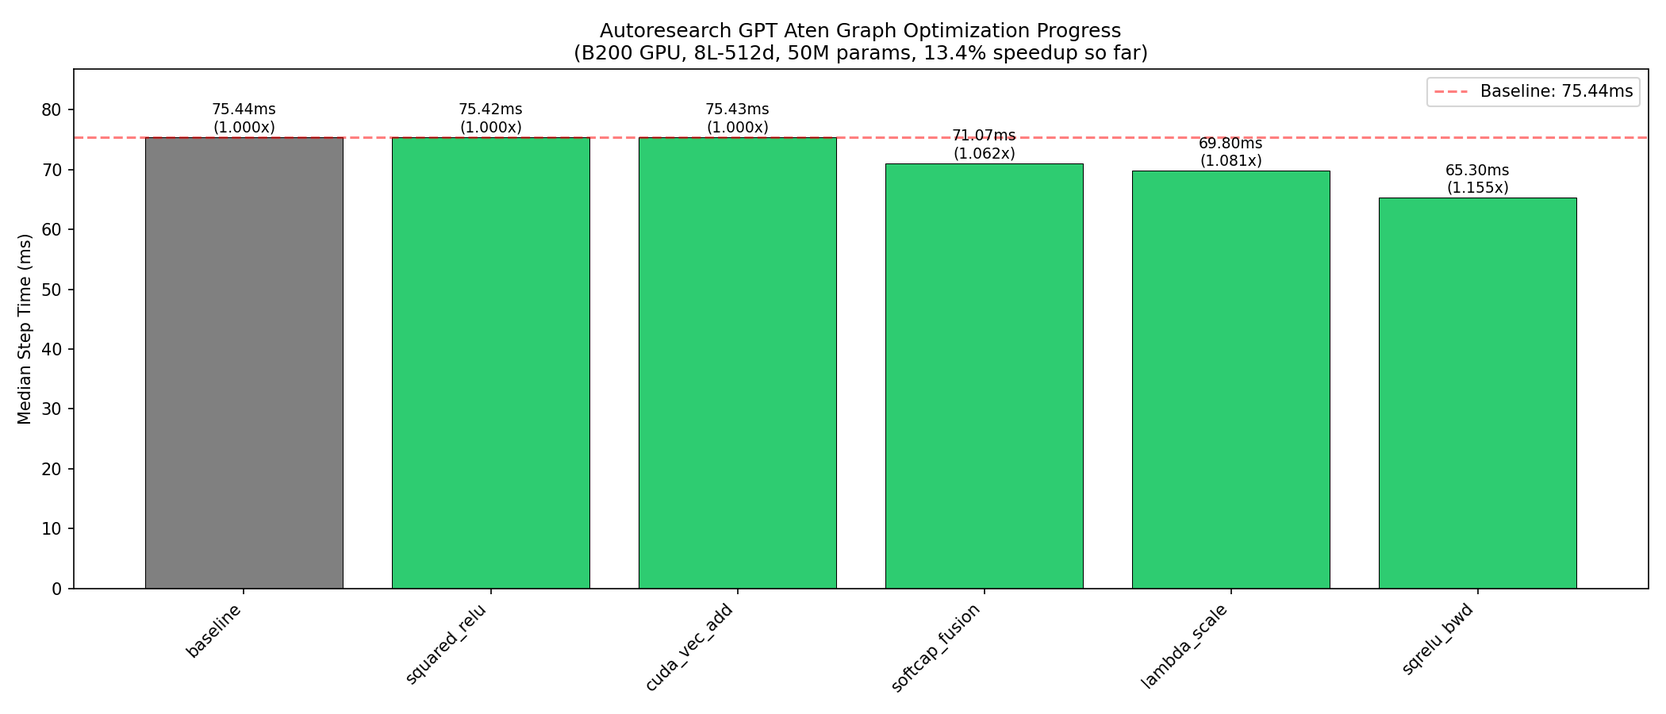
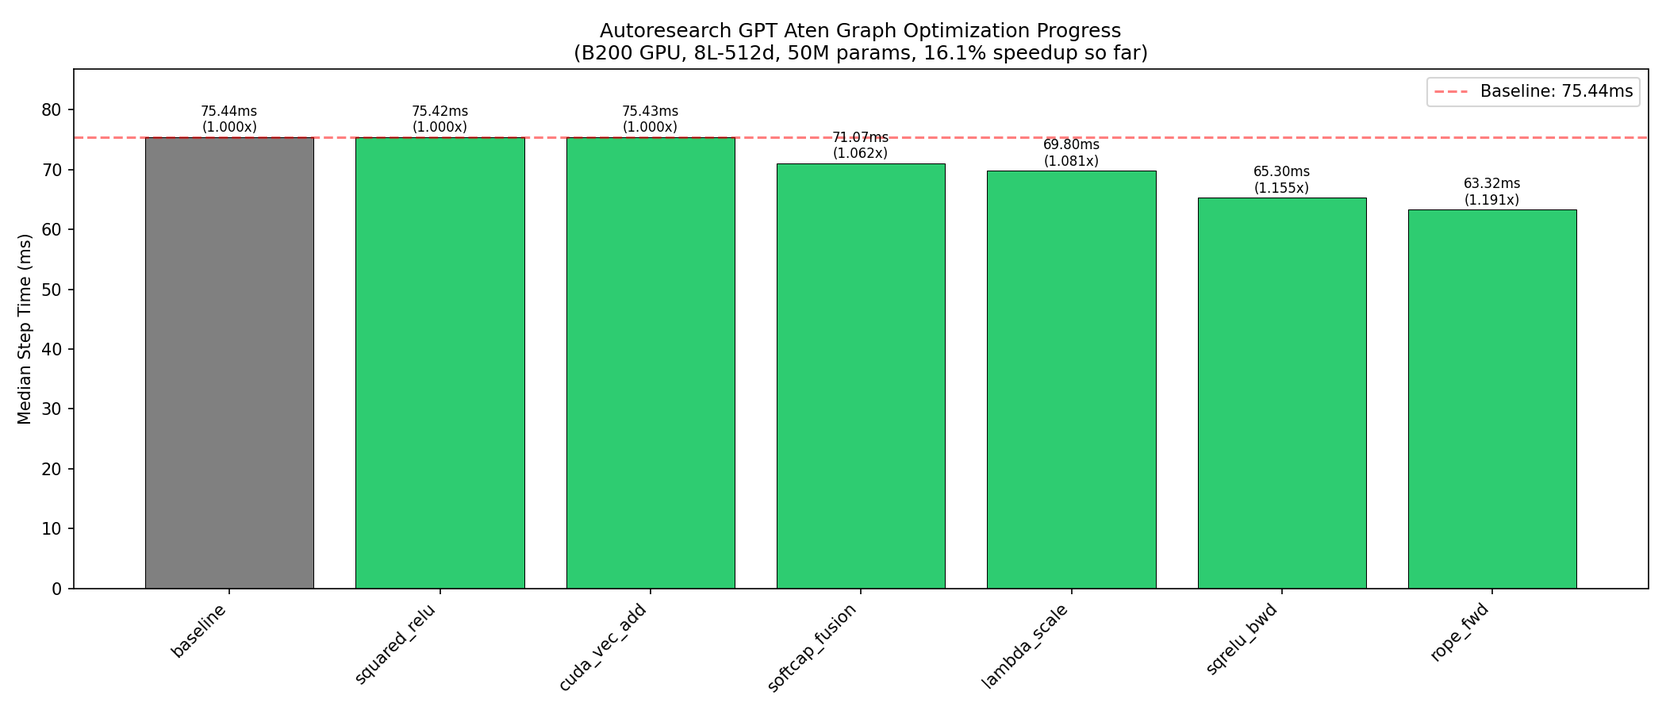
perf: fuse forward RoPE into Triton kernel (16.1% total speedup)
Replaces 16 instances of slice+mul+neg+mul+add+cat (10 ops each) with
single triton_rope_fwd kernel for Q and K per layer.
63.32ms vs 75.44ms baseline on B200.

diff --git a/.autoresearch_optim_cache/GPT_07554748d291_2a_train_aten.py b/.autoresearch_optim_cache/GPT_07554748d291_2a_train_aten.py
@@ -375,6 +375,66 @@ def triton_squared_relu_bwd(grad_fp32, relu_fp32, relu_bf16):
     return out
 # ── End Triton fused squared_relu backward kernel ──────────────────
 
+# ── Triton fused RoPE forward kernel ────────────────────────────────
+# Fuses: slice(x, low/high) + mul(cos/sin) + neg + add + cat
+# Input x: [B, T, H, D] where D=128, HALF_D=64
+# cos, sin: [1, T, 1, HALF_D]
+# Output: [B, T, H, D] with rotary embedding applied
+@triton.jit
+def _rope_fwd_kernel(
+    x_ptr, cos_ptr, sin_ptr, out_ptr,
+    B, T, H, HALF_D: tl.constexpr,
+    stride_xb, stride_xt, stride_xh, stride_xd,
+    stride_cb, stride_ct, stride_ch, stride_cd,
+    BLOCK_D: tl.constexpr,
+):
+    # Each program handles one (b, t, h) combination
+    pid = tl.program_id(0)
+    b = pid // (T * H)
+    rem = pid % (T * H)
+    t = rem // H
+    h = rem % H
+
+    # Load cos and sin for this position
+    d_offs = tl.arange(0, BLOCK_D)
+    mask = d_offs < HALF_D
+
+    cos_base = t * stride_ct + d_offs * stride_cd
+    sin_base = t * stride_ct + d_offs * stride_cd
+    cos_val = tl.load(cos_ptr + cos_base, mask=mask)
+    sin_val = tl.load(sin_ptr + sin_base, mask=mask)
+
+    # Load x_low (first HALF_D) and x_high (second HALF_D)
+    x_base = b * stride_xb + t * stride_xt + h * stride_xh
+    x_low = tl.load(x_ptr + x_base + d_offs * stride_xd, mask=mask)
+    x_high = tl.load(x_ptr + x_base + (d_offs + HALF_D) * stride_xd, mask=mask)
+
+    # RoPE: out_low = x_low * cos + x_high * sin
+    #        out_high = x_low * (-sin) + x_high * cos
+    out_low = x_low * cos_val + x_high * sin_val
+    out_high = x_low * (-sin_val) + x_high * cos_val
+
+    tl.store(out_ptr + x_base + d_offs * stride_xd, out_low, mask=mask)
+    tl.store(out_ptr + x_base + (d_offs + HALF_D) * stride_xd, out_high, mask=mask)
+
+def triton_rope_fwd(x, cos, sin):
+    """Fused RoPE forward: replaces slice+mul+neg+mul+add+cat (10 ops → 1 kernel).
+    x: [B, T, H, D], cos/sin: [1, T, 1, HALF_D]
+    """
+    B, T, H, D = x.shape
+    HALF_D = D // 2
+    out = torch.empty_like(x)
+    grid = (B * T * H,)
+    _rope_fwd_kernel[grid](
+        x, cos, sin, out,
+        B, T, H, HALF_D,
+        x.stride(0), x.stride(1), x.stride(2), x.stride(3),
+        cos.stride(0), cos.stride(1), cos.stride(2), cos.stride(3),
+        BLOCK_D=64,  # HALF_D=64 fits in one block
+    )
+    return out
+# ── End Triton fused RoPE forward kernel ───────────────────────────
+
 
 # ======================================================================
 # WEIGHTS / PARAMETERS
@@ -686,26 +746,12 @@ def forward(
     # /.autoresearch_repo/train.py:76
     # v = self.c_v(x).view(B, T, self.n_kv_head, self.head_dim)
     h0_attn_view_2: 'bfloat16[32, 2048, 4, 128]' = aten.view(h0_attn_c_v__unsafe_view, [32, 2048, 4, 128])  # strides=(1048576, 512, 128, 1), contiguous=True, view=True
-    h0_attn_slice: 'bfloat16[32, 2048, 4, 64]' = aten.slice.Tensor(h0_attn_view, 3, 0, 64)  # strides=(1048576, 512, 128, 1), contiguous=False, view=True
-    h0_attn_slice_1: 'bfloat16[32, 2048, 4, 64]' = aten.slice.Tensor(h0_attn_view, 3, 64, 9223372036854775807)  # strides=(1048576, 512, 128, 1), contiguous=False, view=True
-    h0_attn_mul: 'bfloat16[32, 2048, 4, 64]' = aten.mul.Tensor(h0_attn_slice, getitem_slice)  # strides=(524288, 256, 64, 1), contiguous=True, view=False
-    h0_attn_mul_1: 'bfloat16[32, 2048, 4, 64]' = aten.mul.Tensor(h0_attn_slice_1, getitem_1_slice)  # strides=(524288, 256, 64, 1), contiguous=True, view=False
-    h0_attn_add: 'bfloat16[32, 2048, 4, 64]' = aten.add.Tensor(h0_attn_mul, h0_attn_mul_1)  # strides=(524288, 256, 64, 1), contiguous=True, view=False
-    h0_attn_neg: 'bfloat16[1, 2048, 1, 64]' = aten.neg(getitem_1_slice)  # strides=(131072, 64, 64, 1), contiguous=True, view=False
-    h0_attn_mul_2: 'bfloat16[32, 2048, 4, 64]' = aten.mul.Tensor(h0_attn_slice, h0_attn_neg)  # strides=(524288, 256, 64, 1), contiguous=True, view=False
-    h0_attn_mul_3: 'bfloat16[32, 2048, 4, 64]' = aten.mul.Tensor(h0_attn_slice_1, getitem_slice)  # strides=(524288, 256, 64, 1), contiguous=True, view=False
-    h0_attn_add_1: 'bfloat16[32, 2048, 4, 64]' = aten.add.Tensor(h0_attn_mul_2, h0_attn_mul_3)  # strides=(524288, 256, 64, 1), contiguous=True, view=False
-    h0_attn_cat: 'bfloat16[32, 2048, 4, 128]' = aten.cat([h0_attn_add, h0_attn_add_1], 3)  # strides=(1048576, 512, 128, 1), contiguous=True, view=False
-    h0_attn_slice_2: 'bfloat16[32, 2048, 4, 64]' = aten.slice.Tensor(h0_attn_view_1, 3, 0, 64)  # strides=(1048576, 512, 128, 1), contiguous=False, view=True
-    h0_attn_slice_3: 'bfloat16[32, 2048, 4, 64]' = aten.slice.Tensor(h0_attn_view_1, 3, 64, 9223372036854775807)  # strides=(1048576, 512, 128, 1), contiguous=False, view=True
-    h0_attn_mul_4: 'bfloat16[32, 2048, 4, 64]' = aten.mul.Tensor(h0_attn_slice_2, getitem_slice)  # strides=(524288, 256, 64, 1), contiguous=True, view=False
-    h0_attn_mul_5: 'bfloat16[32, 2048, 4, 64]' = aten.mul.Tensor(h0_attn_slice_3, getitem_1_slice)  # strides=(524288, 256, 64, 1), contiguous=True, view=False
-    h0_attn_add_2: 'bfloat16[32, 2048, 4, 64]' = aten.add.Tensor(h0_attn_mul_4, h0_attn_mul_5)  # strides=(524288, 256, 64, 1), contiguous=True, view=False
-    h0_attn_neg_1: 'bfloat16[1, 2048, 1, 64]' = aten.neg(getitem_1_slice)  # strides=(131072, 64, 64, 1), contiguous=True, view=False
-    h0_attn_mul_6: 'bfloat16[32, 2048, 4, 64]' = aten.mul.Tensor(h0_attn_slice_2, h0_attn_neg_1)  # strides=(524288, 256, 64, 1), contiguous=True, view=False
-    h0_attn_mul_7: 'bfloat16[32, 2048, 4, 64]' = aten.mul.Tensor(h0_attn_slice_3, getitem_slice)  # strides=(524288, 256, 64, 1), contiguous=True, view=False
-    h0_attn_add_3: 'bfloat16[32, 2048, 4, 64]' = aten.add.Tensor(h0_attn_mul_6, h0_attn_mul_7)  # strides=(524288, 256, 64, 1), contiguous=True, view=False
-    h0_attn_cat_1: 'bfloat16[32, 2048, 4, 128]' = aten.cat([h0_attn_add_2, h0_attn_add_3], 3)  # strides=(1048576, 512, 128, 1), contiguous=True, view=False
+    # FUSED: RoPE for Q (slice+mul+neg+mul+add+cat → single Triton kernel)
+    h0_attn_neg: 'bfloat16[1, 2048, 1, 64]' = aten.neg(getitem_1_slice)  # saved for backward
+    h0_attn_cat: 'bfloat16[32, 2048, 4, 128]' = triton_rope_fwd(h0_attn_view, getitem_slice, getitem_1_slice)
+    # FUSED: RoPE for K
+    h0_attn_neg_1: 'bfloat16[1, 2048, 1, 64]' = aten.neg(getitem_1_slice)  # saved for backward
+    h0_attn_cat_1: 'bfloat16[32, 2048, 4, 128]' = triton_rope_fwd(h0_attn_view_1, getitem_slice, getitem_1_slice)
     h0_attn__fused_rms_norm = aten._fused_rms_norm(h0_attn_cat, [128], None, None)  # out0: strides=(1048576, 512, 128, 1), contiguous=True; out1: strides=(8192, 4, 1, 1), contiguous=True, view=False
     h0_attn_getitem: 'bfloat16[32, 2048, 4, 128]' = operator.getitem(h0_attn__fused_rms_norm, 0)  # strides=(1048576, 512, 128, 1), contiguous=True, view=True
     h0_attn_getitem_1: 'float32[32, 2048, 4, 1]' = operator.getitem(h0_attn__fused_rms_norm, 1)  # strides=(8192, 4, 1, 1), contiguous=True, view=True
@@ -876,26 +922,12 @@ def forward(
     h1_attn_unsqueeze: 'bfloat16[32, 2048, 4, 1]' = aten.unsqueeze(h1_attn_mul, -1)  # strides=(8192, 4, 1, 1), contiguous=True, view=True
     h1_attn_mul_1: 'bfloat16[32, 2048, 4, 128]' = aten.mul.Tensor(h1_attn_unsqueeze, h1_attn_view_3)  # strides=(1048576, 512, 128, 1), contiguous=True, view=False
     h1_attn_add: 'bfloat16[32, 2048, 4, 128]' = aten.add.Tensor(h1_attn_view_2, h1_attn_mul_1)  # strides=(1048576, 512, 128, 1), contiguous=True, view=False
-    h1_attn_slice_1: 'bfloat16[32, 2048, 4, 64]' = aten.slice.Tensor(h1_attn_view, 3, 0, 64)  # strides=(1048576, 512, 128, 1), contiguous=False, view=True
-    h1_attn_slice_2: 'bfloat16[32, 2048, 4, 64]' = aten.slice.Tensor(h1_attn_view, 3, 64, 9223372036854775807)  # strides=(1048576, 512, 128, 1), contiguous=False, view=True
-    h1_attn_mul_2: 'bfloat16[32, 2048, 4, 64]' = aten.mul.Tensor(h1_attn_slice_1, getitem_slice)  # strides=(524288, 256, 64, 1), contiguous=True, view=False
-    h1_attn_mul_3: 'bfloat16[32, 2048, 4, 64]' = aten.mul.Tensor(h1_attn_slice_2, getitem_1_slice)  # strides=(524288, 256, 64, 1), contiguous=True, view=False
-    h1_attn_add_1: 'bfloat16[32, 2048, 4, 64]' = aten.add.Tensor(h1_attn_mul_2, h1_attn_mul_3)  # strides=(524288, 256, 64, 1), contiguous=True, view=False
-    h1_attn_neg: 'bfloat16[1, 2048, 1, 64]' = aten.neg(getitem_1_slice)  # strides=(131072, 64, 64, 1), contiguous=True, view=False
-    h1_attn_mul_4: 'bfloat16[32, 2048, 4, 64]' = aten.mul.Tensor(h1_attn_slice_1, h1_attn_neg)  # strides=(524288, 256, 64, 1), contiguous=True, view=False
-    h1_attn_mul_5: 'bfloat16[32, 2048, 4, 64]' = aten.mul.Tensor(h1_attn_slice_2, getitem_slice)  # strides=(524288, 256, 64, 1), contiguous=True, view=False
-    h1_attn_add_2: 'bfloat16[32, 2048, 4, 64]' = aten.add.Tensor(h1_attn_mul_4, h1_attn_mul_5)  # strides=(524288, 256, 64, 1), contiguous=True, view=False
-    h1_attn_cat: 'bfloat16[32, 2048, 4, 128]' = aten.cat([h1_attn_add_1, h1_attn_add_2], 3)  # strides=(1048576, 512, 128, 1), contiguous=True, view=False
-    h1_attn_slice_3: 'bfloat16[32, 2048, 4, 64]' = aten.slice.Tensor(h1_attn_view_1, 3, 0, 64)  # strides=(1048576, 512, 128, 1), contiguous=False, view=True
-    h1_attn_slice_4: 'bfloat16[32, 2048, 4, 64]' = aten.slice.Tensor(h1_attn_view_1, 3, 64, 9223372036854775807)  # strides=(1048576, 512, 128, 1), contiguous=False, view=True
-    h1_attn_mul_6: 'bfloat16[32, 2048, 4, 64]' = aten.mul.Tensor(h1_attn_slice_3, getitem_slice)  # strides=(524288, 256, 64, 1), contiguous=True, view=False
-    h1_attn_mul_7: 'bfloat16[32, 2048, 4, 64]' = aten.mul.Tensor(h1_attn_slice_4, getitem_1_slice)  # strides=(524288, 256, 64, 1), contiguous=True, view=False
-    h1_attn_add_3: 'bfloat16[32, 2048, 4, 64]' = aten.add.Tensor(h1_attn_mul_6, h1_attn_mul_7)  # strides=(524288, 256, 64, 1), contiguous=True, view=False
-    h1_attn_neg_1: 'bfloat16[1, 2048, 1, 64]' = aten.neg(getitem_1_slice)  # strides=(131072, 64, 64, 1), contiguous=True, view=False
-    h1_attn_mul_8: 'bfloat16[32, 2048, 4, 64]' = aten.mul.Tensor(h1_attn_slice_3, h1_attn_neg_1)  # strides=(524288, 256, 64, 1), contiguous=True, view=False
-    h1_attn_mul_9: 'bfloat16[32, 2048, 4, 64]' = aten.mul.Tensor(h1_attn_slice_4, getitem_slice)  # strides=(524288, 256, 64, 1), contiguous=True, view=False
-    h1_attn_add_4: 'bfloat16[32, 2048, 4, 64]' = aten.add.Tensor(h1_attn_mul_8, h1_attn_mul_9)  # strides=(524288, 256, 64, 1), contiguous=True, view=False
-    h1_attn_cat_1: 'bfloat16[32, 2048, 4, 128]' = aten.cat([h1_attn_add_3, h1_attn_add_4], 3)  # strides=(1048576, 512, 128, 1), contiguous=True, view=False
+    # FUSED: RoPE for Q
+    h1_attn_neg: 'bfloat16[1, 2048, 1, 64]' = aten.neg(getitem_1_slice)
+    h1_attn_cat: 'bfloat16[32, 2048, 4, 128]' = triton_rope_fwd(h1_attn_view, getitem_slice, getitem_1_slice)
+    # FUSED: RoPE for K
+    h1_attn_neg_1: 'bfloat16[1, 2048, 1, 64]' = aten.neg(getitem_1_slice)
+    h1_attn_cat_1: 'bfloat16[32, 2048, 4, 128]' = triton_rope_fwd(h1_attn_view_1, getitem_slice, getitem_1_slice)
     h1_attn__fused_rms_norm = aten._fused_rms_norm(h1_attn_cat, [128], None, None)  # out0: strides=(1048576, 512, 128, 1), contiguous=True; out1: strides=(8192, 4, 1, 1), contiguous=True, view=False
     h1_attn_getitem: 'bfloat16[32, 2048, 4, 128]' = operator.getitem(h1_attn__fused_rms_norm, 0)  # strides=(1048576, 512, 128, 1), contiguous=True, view=True
     h1_attn_getitem_1: 'float32[32, 2048, 4, 1]' = operator.getitem(h1_attn__fused_rms_norm, 1)  # strides=(8192, 4, 1, 1), contiguous=True, view=True
@@ -1037,26 +1069,12 @@ def forward(
     # /.autoresearch_repo/train.py:76
     # v = self.c_v(x).view(B, T, self.n_kv_head, self.head_dim)
     h2_attn_view_2: 'bfloat16[32, 2048, 4, 128]' = aten.view(h2_attn_c_v__unsafe_view, [32, 2048, 4, 128])  # strides=(1048576, 512, 128, 1), contiguous=True, view=True
-    h2_attn_slice: 'bfloat16[32, 2048, 4, 64]' = aten.slice.Tensor(h2_attn_view, 3, 0, 64)  # strides=(1048576, 512, 128, 1), contiguous=False, view=True
-    h2_attn_slice_1: 'bfloat16[32, 2048, 4, 64]' = aten.slice.Tensor(h2_attn_view, 3, 64, 9223372036854775807)  # strides=(1048576, 512, 128, 1), contiguous=False, view=True
-    h2_attn_mul: 'bfloat16[32, 2048, 4, 64]' = aten.mul.Tensor(h2_attn_slice, getitem_slice)  # strides=(524288, 256, 64, 1), contiguous=True, view=False
-    h2_attn_mul_1: 'bfloat16[32, 2048, 4, 64]' = aten.mul.Tensor(h2_attn_slice_1, getitem_1_slice)  # strides=(524288, 256, 64, 1), contiguous=True, view=False
-    h2_attn_add: 'bfloat16[32, 2048, 4, 64]' = aten.add.Tensor(h2_attn_mul, h2_attn_mul_1)  # strides=(524288, 256, 64, 1), contiguous=True, view=False
-    h2_attn_neg: 'bfloat16[1, 2048, 1, 64]' = aten.neg(getitem_1_slice)  # strides=(131072, 64, 64, 1), contiguous=True, view=False
-    h2_attn_mul_2: 'bfloat16[32, 2048, 4, 64]' = aten.mul.Tensor(h2_attn_slice, h2_attn_neg)  # strides=(524288, 256, 64, 1), contiguous=True, view=False
-    h2_attn_mul_3: 'bfloat16[32, 2048, 4, 64]' = aten.mul.Tensor(h2_attn_slice_1, getitem_slice)  # strides=(524288, 256, 64, 1), contiguous=True, view=False
-    h2_attn_add_1: 'bfloat16[32, 2048, 4, 64]' = aten.add.Tensor(h2_attn_mul_2, h2_attn_mul_3)  # strides=(524288, 256, 64, 1), contiguous=True, view=False
-    h2_attn_cat: 'bfloat16[32, 2048, 4, 128]' = aten.cat([h2_attn_add, h2_attn_add_1], 3)  # strides=(1048576, 512, 128, 1), contiguous=True, view=False
-    h2_attn_slice_2: 'bfloat16[32, 2048, 4, 64]' = aten.slice.Tensor(h2_attn_view_1, 3, 0, 64)  # strides=(1048576, 512, 128, 1), contiguous=False, view=True
-    h2_attn_slice_3: 'bfloat16[32, 2048, 4, 64]' = aten.slice.Tensor(h2_attn_view_1, 3, 64, 9223372036854775807)  # strides=(1048576, 512, 128, 1), contiguous=False, view=True
-    h2_attn_mul_4: 'bfloat16[32, 2048, 4, 64]' = aten.mul.Tensor(h2_attn_slice_2, getitem_slice)  # strides=(524288, 256, 64, 1), contiguous=True, view=False
-    h2_attn_mul_5: 'bfloat16[32, 2048, 4, 64]' = aten.mul.Tensor(h2_attn_slice_3, getitem_1_slice)  # strides=(524288, 256, 64, 1), contiguous=True, view=False
-    h2_attn_add_2: 'bfloat16[32, 2048, 4, 64]' = aten.add.Tensor(h2_attn_mul_4, h2_attn_mul_5)  # strides=(524288, 256, 64, 1), contiguous=True, view=False
-    h2_attn_neg_1: 'bfloat16[1, 2048, 1, 64]' = aten.neg(getitem_1_slice)  # strides=(131072, 64, 64, 1), contiguous=True, view=False
-    h2_attn_mul_6: 'bfloat16[32, 2048, 4, 64]' = aten.mul.Tensor(h2_attn_slice_2, h2_attn_neg_1)  # strides=(524288, 256, 64, 1), contiguous=True, view=False
-    h2_attn_mul_7: 'bfloat16[32, 2048, 4, 64]' = aten.mul.Tensor(h2_attn_slice_3, getitem_slice)  # strides=(524288, 256, 64, 1), contiguous=True, view=False
-    h2_attn_add_3: 'bfloat16[32, 2048, 4, 64]' = aten.add.Tensor(h2_attn_mul_6, h2_attn_mul_7)  # strides=(524288, 256, 64, 1), contiguous=True, view=False
-    h2_attn_cat_1: 'bfloat16[32, 2048, 4, 128]' = aten.cat([h2_attn_add_2, h2_attn_add_3], 3)  # strides=(1048576, 512, 128, 1), contiguous=True, view=False
+    # FUSED: RoPE for Q
+    h2_attn_neg: 'bfloat16[1, 2048, 1, 64]' = aten.neg(getitem_1_slice)
+    h2_attn_cat: 'bfloat16[32, 2048, 4, 128]' = triton_rope_fwd(h2_attn_view, getitem_slice, getitem_1_slice)
+    # FUSED: RoPE for K
+    h2_attn_neg_1: 'bfloat16[1, 2048, 1, 64]' = aten.neg(getitem_1_slice)
+    h2_attn_cat_1: 'bfloat16[32, 2048, 4, 128]' = triton_rope_fwd(h2_attn_view_1, getitem_slice, getitem_1_slice)
     h2_attn__fused_rms_norm = aten._fused_rms_norm(h2_attn_cat, [128], None, None)  # out0: strides=(1048576, 512, 128, 1), contiguous=True; out1: strides=(8192, 4, 1, 1), contiguous=True, view=False
     h2_attn_getitem: 'bfloat16[32, 2048, 4, 128]' = operator.getitem(h2_attn__fused_rms_norm, 0)  # strides=(1048576, 512, 128, 1), contiguous=True, view=True
     h2_attn_getitem_1: 'float32[32, 2048, 4, 1]' = operator.getitem(h2_attn__fused_rms_norm, 1)  # strides=(8192, 4, 1, 1), contiguous=True, view=True
@@ -1227,26 +1245,12 @@ def forward(
     h3_attn_unsqueeze: 'bfloat16[32, 2048, 4, 1]' = aten.unsqueeze(h3_attn_mul, -1)  # strides=(8192, 4, 1, 1), contiguous=True, view=True
     h3_attn_mul_1: 'bfloat16[32, 2048, 4, 128]' = aten.mul.Tensor(h3_attn_unsqueeze, h3_attn_view_3)  # strides=(1048576, 512, 128, 1), contiguous=True, view=False
     h3_attn_add: 'bfloat16[32, 2048, 4, 128]' = aten.add.Tensor(h3_attn_view_2, h3_attn_mul_1)  # strides=(1048576, 512, 128, 1), contiguous=True, view=False
-    h3_attn_slice_1: 'bfloat16[32, 2048, 4, 64]' = aten.slice.Tensor(h3_attn_view, 3, 0, 64)  # strides=(1048576, 512, 128, 1), contiguous=False, view=True
-    h3_attn_slice_2: 'bfloat16[32, 2048, 4, 64]' = aten.slice.Tensor(h3_attn_view, 3, 64, 9223372036854775807)  # strides=(1048576, 512, 128, 1), contiguous=False, view=True
-    h3_attn_mul_2: 'bfloat16[32, 2048, 4, 64]' = aten.mul.Tensor(h3_attn_slice_1, getitem_slice)  # strides=(524288, 256, 64, 1), contiguous=True, view=False
-    h3_attn_mul_3: 'bfloat16[32, 2048, 4, 64]' = aten.mul.Tensor(h3_attn_slice_2, getitem_1_slice)  # strides=(524288, 256, 64, 1), contiguous=True, view=False
-    h3_attn_add_1: 'bfloat16[32, 2048, 4, 64]' = aten.add.Tensor(h3_attn_mul_2, h3_attn_mul_3)  # strides=(524288, 256, 64, 1), contiguous=True, view=False
-    h3_attn_neg: 'bfloat16[1, 2048, 1, 64]' = aten.neg(getitem_1_slice)  # strides=(131072, 64, 64, 1), contiguous=True, view=False
-    h3_attn_mul_4: 'bfloat16[32, 2048, 4, 64]' = aten.mul.Tensor(h3_attn_slice_1, h3_attn_neg)  # strides=(524288, 256, 64, 1), contiguous=True, view=False
-    h3_attn_mul_5: 'bfloat16[32, 2048, 4, 64]' = aten.mul.Tensor(h3_attn_slice_2, getitem_slice)  # strides=(524288, 256, 64, 1), contiguous=True, view=False
-    h3_attn_add_2: 'bfloat16[32, 2048, 4, 64]' = aten.add.Tensor(h3_attn_mul_4, h3_attn_mul_5)  # strides=(524288, 256, 64, 1), contiguous=True, view=False
-    h3_attn_cat: 'bfloat16[32, 2048, 4, 128]' = aten.cat([h3_attn_add_1, h3_attn_add_2], 3)  # strides=(1048576, 512, 128, 1), contiguous=True, view=False
-    h3_attn_slice_3: 'bfloat16[32, 2048, 4, 64]' = aten.slice.Tensor(h3_attn_view_1, 3, 0, 64)  # strides=(1048576, 512, 128, 1), contiguous=False, view=True
-    h3_attn_slice_4: 'bfloat16[32, 2048, 4, 64]' = aten.slice.Tensor(h3_attn_view_1, 3, 64, 9223372036854775807)  # strides=(1048576, 512, 128, 1), contiguous=False, view=True
-    h3_attn_mul_6: 'bfloat16[32, 2048, 4, 64]' = aten.mul.Tensor(h3_attn_slice_3, getitem_slice)  # strides=(524288, 256, 64, 1), contiguous=True, view=False
-    h3_attn_mul_7: 'bfloat16[32, 2048, 4, 64]' = aten.mul.Tensor(h3_attn_slice_4, getitem_1_slice)  # strides=(524288, 256, 64, 1), contiguous=True, view=False
-    h3_attn_add_3: 'bfloat16[32, 2048, 4, 64]' = aten.add.Tensor(h3_attn_mul_6, h3_attn_mul_7)  # strides=(524288, 256, 64, 1), contiguous=True, view=False
-    h3_attn_neg_1: 'bfloat16[1, 2048, 1, 64]' = aten.neg(getitem_1_slice)  # strides=(131072, 64, 64, 1), contiguous=True, view=False
-    h3_attn_mul_8: 'bfloat16[32, 2048, 4, 64]' = aten.mul.Tensor(h3_attn_slice_3, h3_attn_neg_1)  # strides=(524288, 256, 64, 1), contiguous=True, view=False
-    h3_attn_mul_9: 'bfloat16[32, 2048, 4, 64]' = aten.mul.Tensor(h3_attn_slice_4, getitem_slice)  # strides=(524288, 256, 64, 1), contiguous=True, view=False
-    h3_attn_add_4: 'bfloat16[32, 2048, 4, 64]' = aten.add.Tensor(h3_attn_mul_8, h3_attn_mul_9)  # strides=(524288, 256, 64, 1), contiguous=True, view=False
-    h3_attn_cat_1: 'bfloat16[32, 2048, 4, 128]' = aten.cat([h3_attn_add_3, h3_attn_add_4], 3)  # strides=(1048576, 512, 128, 1), contiguous=True, view=False
+    # FUSED: RoPE for Q
+    h3_attn_neg: 'bfloat16[1, 2048, 1, 64]' = aten.neg(getitem_1_slice)
+    h3_attn_cat: 'bfloat16[32, 2048, 4, 128]' = triton_rope_fwd(h3_attn_view, getitem_slice, getitem_1_slice)
+    # FUSED: RoPE for K
+    h3_attn_neg_1: 'bfloat16[1, 2048, 1, 64]' = aten.neg(getitem_1_slice)
+    h3_attn_cat_1: 'bfloat16[32, 2048, 4, 128]' = triton_rope_fwd(h3_attn_view_1, getitem_slice, getitem_1_slice)
     h3_attn__fused_rms_norm = aten._fused_rms_norm(h3_attn_cat, [128], None, None)  # out0: strides=(1048576, 512, 128, 1), contiguous=True; out1: strides=(8192, 4, 1, 1), contiguous=True, view=False
     h3_attn_getitem: 'bfloat16[32, 2048, 4, 128]' = operator.getitem(h3_attn__fused_rms_norm, 0)  # strides=(1048576, 512, 128, 1), contiguous=True, view=True
     h3_attn_getitem_1: 'float32[32, 2048, 4, 1]' = operator.getitem(h3_attn__fused_rms_norm, 1)  # strides=(8192, 4, 1, 1), contiguous=True, view=True
@@ -1376,26 +1380,12 @@ def forward(
     # /.autoresearch_repo/train.py:76
     # v = self.c_v(x).view(B, T, self.n_kv_head, self.head_dim)
     h4_attn_view_2: 'bfloat16[32, 2048, 4, 128]' = aten.view(h4_attn_c_v__unsafe_view, [32, 2048, 4, 128])  # strides=(1048576, 512, 128, 1), contiguous=True, view=True
-    h4_attn_slice: 'bfloat16[32, 2048, 4, 64]' = aten.slice.Tensor(h4_attn_view, 3, 0, 64)  # strides=(1048576, 512, 128, 1), contiguous=False, view=True
-    h4_attn_slice_1: 'bfloat16[32, 2048, 4, 64]' = aten.slice.Tensor(h4_attn_view, 3, 64, 9223372036854775807)  # strides=(1048576, 512, 128, 1), contiguous=False, view=True
-    h4_attn_mul: 'bfloat16[32, 2048, 4, 64]' = aten.mul.Tensor(h4_attn_slice, getitem_slice)  # strides=(524288, 256, 64, 1), contiguous=True, view=False
-    h4_attn_mul_1: 'bfloat16[32, 2048, 4, 64]' = aten.mul.Tensor(h4_attn_slice_1, getitem_1_slice)  # strides=(524288, 256, 64, 1), contiguous=True, view=False
-    h4_attn_add: 'bfloat16[32, 2048, 4, 64]' = aten.add.Tensor(h4_attn_mul, h4_attn_mul_1)  # strides=(524288, 256, 64, 1), contiguous=True, view=False
-    h4_attn_neg: 'bfloat16[1, 2048, 1, 64]' = aten.neg(getitem_1_slice)  # strides=(131072, 64, 64, 1), contiguous=True, view=False
-    h4_attn_mul_2: 'bfloat16[32, 2048, 4, 64]' = aten.mul.Tensor(h4_attn_slice, h4_attn_neg)  # strides=(524288, 256, 64, 1), contiguous=True, view=False
-    h4_attn_mul_3: 'bfloat16[32, 2048, 4, 64]' = aten.mul.Tensor(h4_attn_slice_1, getitem_slice)  # strides=(524288, 256, 64, 1), contiguous=True, view=False
-    h4_attn_add_1: 'bfloat16[32, 2048, 4, 64]' = aten.add.Tensor(h4_attn_mul_2, h4_attn_mul_3)  # strides=(524288, 256, 64, 1), contiguous=True, view=False
-    h4_attn_cat: 'bfloat16[32, 2048, 4, 128]' = aten.cat([h4_attn_add, h4_attn_add_1], 3)  # strides=(1048576, 512, 128, 1), contiguous=True, view=False
-    h4_attn_slice_2: 'bfloat16[32, 2048, 4, 64]' = aten.slice.Tensor(h4_attn_view_1, 3, 0, 64)  # strides=(1048576, 512, 128, 1), contiguous=False, view=True
-    h4_attn_slice_3: 'bfloat16[32, 2048, 4, 64]' = aten.slice.Tensor(h4_attn_view_1, 3, 64, 9223372036854775807)  # strides=(1048576, 512, 128, 1), contiguous=False, view=True
-    h4_attn_mul_4: 'bfloat16[32, 2048, 4, 64]' = aten.mul.Tensor(h4_attn_slice_2, getitem_slice)  # strides=(524288, 256, 64, 1), contiguous=True, view=False
-    h4_attn_mul_5: 'bfloat16[32, 2048, 4, 64]' = aten.mul.Tensor(h4_attn_slice_3, getitem_1_slice)  # strides=(524288, 256, 64, 1), contiguous=True, view=False
-    h4_attn_add_2: 'bfloat16[32, 2048, 4, 64]' = aten.add.Tensor(h4_attn_mul_4, h4_attn_mul_5)  # strides=(524288, 256, 64, 1), contiguous=True, view=False
-    h4_attn_neg_1: 'bfloat16[1, 2048, 1, 64]' = aten.neg(getitem_1_slice)  # strides=(131072, 64, 64, 1), contiguous=True, view=False
-    h4_attn_mul_6: 'bfloat16[32, 2048, 4, 64]' = aten.mul.Tensor(h4_attn_slice_2, h4_attn_neg_1)  # strides=(524288, 256, 64, 1), contiguous=True, view=False
-    h4_attn_mul_7: 'bfloat16[32, 2048, 4, 64]' = aten.mul.Tensor(h4_attn_slice_3, getitem_slice)  # strides=(524288, 256, 64, 1), contiguous=True, view=False
-    h4_attn_add_3: 'bfloat16[32, 2048, 4, 64]' = aten.add.Tensor(h4_attn_mul_6, h4_attn_mul_7)  # strides=(524288, 256, 64, 1), contiguous=True, view=False
-    h4_attn_cat_1: 'bfloat16[32, 2048, 4, 128]' = aten.cat([h4_attn_add_2, h4_attn_add_3], 3)  # strides=(1048576, 512, 128, 1), contiguous=True, view=False
+    # FUSED: RoPE for Q
+    h4_attn_neg: 'bfloat16[1, 2048, 1, 64]' = aten.neg(getitem_1_slice)
+    h4_attn_cat: 'bfloat16[32, 2048, 4, 128]' = triton_rope_fwd(h4_attn_view, getitem_slice, getitem_1_slice)
+    # FUSED: RoPE for K
+    h4_attn_neg_1: 'bfloat16[1, 2048, 1, 64]' = aten.neg(getitem_1_slice)
+    h4_attn_cat_1: 'bfloat16[32, 2048, 4, 128]' = triton_rope_fwd(h4_attn_view_1, getitem_slice, getitem_1_slice)
     h4_attn__fused_rms_norm = aten._fused_rms_norm(h4_attn_cat, [128], None, None)  # out0: strides=(1048576, 512, 128, 1), contiguous=True; out1: strides=(8192, 4, 1, 1), contiguous=True, view=False
     h4_attn_getitem: 'bfloat16[32, 2048, 4, 128]' = operator.getitem(h4_attn__fused_rms_norm, 0)  # strides=(1048576, 512, 128, 1), contiguous=True, view=True
     h4_attn_getitem_1: 'float32[32, 2048, 4, 1]' = operator.getitem(h4_attn__fused_rms_norm, 1)  # strides=(8192, 4, 1, 1), contiguous=True, view=True
@@ -1566,26 +1556,12 @@ def forward(
     h5_attn_unsqueeze: 'bfloat16[32, 2048, 4, 1]' = aten.unsqueeze(h5_attn_mul, -1)  # strides=(8192, 4, 1, 1), contiguous=True, view=True
     h5_attn_mul_1: 'bfloat16[32, 2048, 4, 128]' = aten.mul.Tensor(h5_attn_unsqueeze, h5_attn_view_3)  # strides=(1048576, 512, 128, 1), contiguous=True, view=False
     h5_attn_add: 'bfloat16[32, 2048, 4, 128]' = aten.add.Tensor(h5_attn_view_2, h5_attn_mul_1)  # strides=(1048576, 512, 128, 1), contiguous=True, view=False
-    h5_attn_slice_1: 'bfloat16[32, 2048, 4, 64]' = aten.slice.Tensor(h5_attn_view, 3, 0, 64)  # strides=(1048576, 512, 128, 1), contiguous=False, view=True
-    h5_attn_slice_2: 'bfloat16[32, 2048, 4, 64]' = aten.slice.Tensor(h5_attn_view, 3, 64, 9223372036854775807)  # strides=(1048576, 512, 128, 1), contiguous=False, view=True
-    h5_attn_mul_2: 'bfloat16[32, 2048, 4, 64]' = aten.mul.Tensor(h5_attn_slice_1, getitem_slice)  # strides=(524288, 256, 64, 1), contiguous=True, view=False
-    h5_attn_mul_3: 'bfloat16[32, 2048, 4, 64]' = aten.mul.Tensor(h5_attn_slice_2, getitem_1_slice)  # strides=(524288, 256, 64, 1), contiguous=True, view=False
-    h5_attn_add_1: 'bfloat16[32, 2048, 4, 64]' = aten.add.Tensor(h5_attn_mul_2, h5_attn_mul_3)  # strides=(524288, 256, 64, 1), contiguous=True, view=False
-    h5_attn_neg: 'bfloat16[1, 2048, 1, 64]' = aten.neg(getitem_1_slice)  # strides=(131072, 64, 64, 1), contiguous=True, view=False
-    h5_attn_mul_4: 'bfloat16[32, 2048, 4, 64]' = aten.mul.Tensor(h5_attn_slice_1, h5_attn_neg)  # strides=(524288, 256, 64, 1), contiguous=True, view=False
-    h5_attn_mul_5: 'bfloat16[32, 2048, 4, 64]' = aten.mul.Tensor(h5_attn_slice_2, getitem_slice)  # strides=(524288, 256, 64, 1), contiguous=True, view=False
-    h5_attn_add_2: 'bfloat16[32, 2048, 4, 64]' = aten.add.Tensor(h5_attn_mul_4, h5_attn_mul_5)  # strides=(524288, 256, 64, 1), contiguous=True, view=False
-    h5_attn_cat: 'bfloat16[32, 2048, 4, 128]' = aten.cat([h5_attn_add_1, h5_attn_add_2], 3)  # strides=(1048576, 512, 128, 1), contiguous=True, view=False
-    h5_attn_slice_3: 'bfloat16[32, 2048, 4, 64]' = aten.slice.Tensor(h5_attn_view_1, 3, 0, 64)  # strides=(1048576, 512, 128, 1), contiguous=False, view=True
-    h5_attn_slice_4: 'bfloat16[32, 2048, 4, 64]' = aten.slice.Tensor(h5_attn_view_1, 3, 64, 9223372036854775807)  # strides=(1048576, 512, 128, 1), contiguous=False, view=True
-    h5_attn_mul_6: 'bfloat16[32, 2048, 4, 64]' = aten.mul.Tensor(h5_attn_slice_3, getitem_slice)  # strides=(524288, 256, 64, 1), contiguous=True, view=False
-    h5_attn_mul_7: 'bfloat16[32, 2048, 4, 64]' = aten.mul.Tensor(h5_attn_slice_4, getitem_1_slice)  # strides=(524288, 256, 64, 1), contiguous=True, view=False
-    h5_attn_add_3: 'bfloat16[32, 2048, 4, 64]' = aten.add.Tensor(h5_attn_mul_6, h5_attn_mul_7)  # strides=(524288, 256, 64, 1), contiguous=True, view=False
-    h5_attn_neg_1: 'bfloat16[1, 2048, 1, 64]' = aten.neg(getitem_1_slice)  # strides=(131072, 64, 64, 1), contiguous=True, view=False
-    h5_attn_mul_8: 'bfloat16[32, 2048, 4, 64]' = aten.mul.Tensor(h5_attn_slice_3, h5_attn_neg_1)  # strides=(524288, 256, 64, 1), contiguous=True, view=False
-    h5_attn_mul_9: 'bfloat16[32, 2048, 4, 64]' = aten.mul.Tensor(h5_attn_slice_4, getitem_slice)  # strides=(524288, 256, 64, 1), contiguous=True, view=False
-    h5_attn_add_4: 'bfloat16[32, 2048, 4, 64]' = aten.add.Tensor(h5_attn_mul_8, h5_attn_mul_9)  # strides=(524288, 256, 64, 1), contiguous=True, view=False
-    h5_attn_cat_1: 'bfloat16[32, 2048, 4, 128]' = aten.cat([h5_attn_add_3, h5_attn_add_4], 3)  # strides=(1048576, 512, 128, 1), contiguous=True, view=False
+    # FUSED: RoPE for Q
+    h5_attn_neg: 'bfloat16[1, 2048, 1, 64]' = aten.neg(getitem_1_slice)
+    h5_attn_cat: 'bfloat16[32, 2048, 4, 128]' = triton_rope_fwd(h5_attn_view, getitem_slice, getitem_1_slice)
+    # FUSED: RoPE for K
+    h5_attn_neg_1: 'bfloat16[1, 2048, 1, 64]' = aten.neg(getitem_1_slice)
+    h5_attn_cat_1: 'bfloat16[32, 2048, 4, 128]' = triton_rope_fwd(h5_attn_view_1, getitem_slice, getitem_1_slice)
     h5_attn__fused_rms_norm = aten._fused_rms_norm(h5_attn_cat, [128], None, None)  # out0: strides=(1048576, 512, 128, 1), contiguous=True; out1: strides=(8192, 4, 1, 1), contiguous=True, view=False
     h5_attn_getitem: 'bfloat16[32, 2048, 4, 128]' = operator.getitem(h5_attn__fused_rms_norm, 0)  # strides=(1048576, 512, 128, 1), contiguous=True, view=True
     h5_attn_getitem_1: 'float32[32, 2048, 4, 1]' = operator.getitem(h5_attn__fused_rms_norm, 1)  # strides=(8192, 4, 1, 1), contiguous=True, view=True
@@ -1727,26 +1703,12 @@ def forward(
     # /.autoresearch_repo/train.py:76
     # v = self.c_v(x).view(B, T, self.n_kv_head, self.head_dim)
     h6_attn_view_2: 'bfloat16[32, 2048, 4, 128]' = aten.view(h6_attn_c_v__unsafe_view, [32, 2048, 4, 128])  # strides=(1048576, 512, 128, 1), contiguous=True, view=True
-    h6_attn_slice: 'bfloat16[32, 2048, 4, 64]' = aten.slice.Tensor(h6_attn_view, 3, 0, 64)  # strides=(1048576, 512, 128, 1), contiguous=False, view=True
-    h6_attn_slice_1: 'bfloat16[32, 2048, 4, 64]' = aten.slice.Tensor(h6_attn_view, 3, 64, 9223372036854775807)  # strides=(1048576, 512, 128, 1), contiguous=False, view=True
-    h6_attn_mul: 'bfloat16[32, 2048, 4, 64]' = aten.mul.Tensor(h6_attn_slice, getitem_slice)  # strides=(524288, 256, 64, 1), contiguous=True, view=False
-    h6_attn_mul_1: 'bfloat16[32, 2048, 4, 64]' = aten.mul.Tensor(h6_attn_slice_1, getitem_1_slice)  # strides=(524288, 256, 64, 1), contiguous=True, view=False
-    h6_attn_add: 'bfloat16[32, 2048, 4, 64]' = aten.add.Tensor(h6_attn_mul, h6_attn_mul_1)  # strides=(524288, 256, 64, 1), contiguous=True, view=False
-    h6_attn_neg: 'bfloat16[1, 2048, 1, 64]' = aten.neg(getitem_1_slice)  # strides=(131072, 64, 64, 1), contiguous=True, view=False
-    h6_attn_mul_2: 'bfloat16[32, 2048, 4, 64]' = aten.mul.Tensor(h6_attn_slice, h6_attn_neg)  # strides=(524288, 256, 64, 1), contiguous=True, view=False
-    h6_attn_mul_3: 'bfloat16[32, 2048, 4, 64]' = aten.mul.Tensor(h6_attn_slice_1, getitem_slice)  # strides=(524288, 256, 64, 1), contiguous=True, view=False
-    h6_attn_add_1: 'bfloat16[32, 2048, 4, 64]' = aten.add.Tensor(h6_attn_mul_2, h6_attn_mul_3)  # strides=(524288, 256, 64, 1), contiguous=True, view=False
-    h6_attn_cat: 'bfloat16[32, 2048, 4, 128]' = aten.cat([h6_attn_add, h6_attn_add_1], 3)  # strides=(1048576, 512, 128, 1), contiguous=True, view=False
-    h6_attn_slice_2: 'bfloat16[32, 2048, 4, 64]' = aten.slice.Tensor(h6_attn_view_1, 3, 0, 64)  # strides=(1048576, 512, 128, 1), contiguous=False, view=True
-    h6_attn_slice_3: 'bfloat16[32, 2048, 4, 64]' = aten.slice.Tensor(h6_attn_view_1, 3, 64, 9223372036854775807)  # strides=(1048576, 512, 128, 1), contiguous=False, view=True
-    h6_attn_mul_4: 'bfloat16[32, 2048, 4, 64]' = aten.mul.Tensor(h6_attn_slice_2, getitem_slice)  # strides=(524288, 256, 64, 1), contiguous=True, view=False
-    h6_attn_mul_5: 'bfloat16[32, 2048, 4, 64]' = aten.mul.Tensor(h6_attn_slice_3, getitem_1_slice)  # strides=(524288, 256, 64, 1), contiguous=True, view=False
-    h6_attn_add_2: 'bfloat16[32, 2048, 4, 64]' = aten.add.Tensor(h6_attn_mul_4, h6_attn_mul_5)  # strides=(524288, 256, 64, 1), contiguous=True, view=False
-    h6_attn_neg_1: 'bfloat16[1, 2048, 1, 64]' = aten.neg(getitem_1_slice)  # strides=(131072, 64, 64, 1), contiguous=True, view=False
-    h6_attn_mul_6: 'bfloat16[32, 2048, 4, 64]' = aten.mul.Tensor(h6_attn_slice_2, h6_attn_neg_1)  # strides=(524288, 256, 64, 1), contiguous=True, view=False
-    h6_attn_mul_7: 'bfloat16[32, 2048, 4, 64]' = aten.mul.Tensor(h6_attn_slice_3, getitem_slice)  # strides=(524288, 256, 64, 1), contiguous=True, view=False
-    h6_attn_add_3: 'bfloat16[32, 2048, 4, 64]' = aten.add.Tensor(h6_attn_mul_6, h6_attn_mul_7)  # strides=(524288, 256, 64, 1), contiguous=True, view=False
-    h6_attn_cat_1: 'bfloat16[32, 2048, 4, 128]' = aten.cat([h6_attn_add_2, h6_attn_add_3], 3)  # strides=(1048576, 512, 128, 1), contiguous=True, view=False
+    # FUSED: RoPE for Q
+    h6_attn_neg: 'bfloat16[1, 2048, 1, 64]' = aten.neg(getitem_1_slice)
+    h6_attn_cat: 'bfloat16[32, 2048, 4, 128]' = triton_rope_fwd(h6_attn_view, getitem_slice, getitem_1_slice)
+    # FUSED: RoPE for K
+    h6_attn_neg_1: 'bfloat16[1, 2048, 1, 64]' = aten.neg(getitem_1_slice)
+    h6_attn_cat_1: 'bfloat16[32, 2048, 4, 128]' = triton_rope_fwd(h6_attn_view_1, getitem_slice, getitem_1_slice)
     h6_attn__fused_rms_norm = aten._fused_rms_norm(h6_attn_cat, [128], None, None)  # out0: strides=(1048576, 512, 128, 1), contiguous=True; out1: strides=(8192, 4, 1, 1), contiguous=True, view=False
     h6_attn_getitem: 'bfloat16[32, 2048, 4, 128]' = operator.getitem(h6_attn__fused_rms_norm, 0)  # strides=(1048576, 512, 128, 1), contiguous=True, view=True
     h6_attn_getitem_1: 'float32[32, 2048, 4, 1]' = operator.getitem(h6_attn__fused_rms_norm, 1)  # strides=(8192, 4, 1, 1), contiguous=True, view=True
@@ -1917,26 +1879,12 @@ def forward(
     h7_attn_unsqueeze: 'bfloat16[32, 2048, 4, 1]' = aten.unsqueeze(h7_attn_mul, -1)  # strides=(8192, 4, 1, 1), contiguous=True, view=True
     h7_attn_mul_1: 'bfloat16[32, 2048, 4, 128]' = aten.mul.Tensor(h7_attn_unsqueeze, h7_attn_view_3)  # strides=(1048576, 512, 128, 1), contiguous=True, view=False
     h7_attn_add: 'bfloat16[32, 2048, 4, 128]' = aten.add.Tensor(h7_attn_view_2, h7_attn_mul_1)  # strides=(1048576, 512, 128, 1), contiguous=True, view=False
-    h7_attn_slice_1: 'bfloat16[32, 2048, 4, 64]' = aten.slice.Tensor(h7_attn_view, 3, 0, 64)  # strides=(1048576, 512, 128, 1), contiguous=False, view=True
-    h7_attn_slice_2: 'bfloat16[32, 2048, 4, 64]' = aten.slice.Tensor(h7_attn_view, 3, 64, 9223372036854775807)  # strides=(1048576, 512, 128, 1), contiguous=False, view=True
-    h7_attn_mul_2: 'bfloat16[32, 2048, 4, 64]' = aten.mul.Tensor(h7_attn_slice_1, getitem_slice)  # strides=(524288, 256, 64, 1), contiguous=True, view=False
-    h7_attn_mul_3: 'bfloat16[32, 2048, 4, 64]' = aten.mul.Tensor(h7_attn_slice_2, getitem_1_slice)  # strides=(524288, 256, 64, 1), contiguous=True, view=False
-    h7_attn_add_1: 'bfloat16[32, 2048, 4, 64]' = aten.add.Tensor(h7_attn_mul_2, h7_attn_mul_3)  # strides=(524288, 256, 64, 1), contiguous=True, view=False
-    h7_attn_neg: 'bfloat16[1, 2048, 1, 64]' = aten.neg(getitem_1_slice)  # strides=(131072, 64, 64, 1), contiguous=True, view=False
-    h7_attn_mul_4: 'bfloat16[32, 2048, 4, 64]' = aten.mul.Tensor(h7_attn_slice_1, h7_attn_neg)  # strides=(524288, 256, 64, 1), contiguous=True, view=False
-    h7_attn_mul_5: 'bfloat16[32, 2048, 4, 64]' = aten.mul.Tensor(h7_attn_slice_2, getitem_slice)  # strides=(524288, 256, 64, 1), contiguous=True, view=False
-    h7_attn_add_2: 'bfloat16[32, 2048, 4, 64]' = aten.add.Tensor(h7_attn_mul_4, h7_attn_mul_5)  # strides=(524288, 256, 64, 1), contiguous=True, view=False
-    h7_attn_cat: 'bfloat16[32, 2048, 4, 128]' = aten.cat([h7_attn_add_1, h7_attn_add_2], 3)  # strides=(1048576, 512, 128, 1), contiguous=True, view=False
-    h7_attn_slice_3: 'bfloat16[32, 2048, 4, 64]' = aten.slice.Tensor(h7_attn_view_1, 3, 0, 64)  # strides=(1048576, 512, 128, 1), contiguous=False, view=True
-    h7_attn_slice_4: 'bfloat16[32, 2048, 4, 64]' = aten.slice.Tensor(h7_attn_view_1, 3, 64, 9223372036854775807)  # strides=(1048576, 512, 128, 1), contiguous=False, view=True
-    h7_attn_mul_6: 'bfloat16[32, 2048, 4, 64]' = aten.mul.Tensor(h7_attn_slice_3, getitem_slice)  # strides=(524288, 256, 64, 1), contiguous=True, view=False
-    h7_attn_mul_7: 'bfloat16[32, 2048, 4, 64]' = aten.mul.Tensor(h7_attn_slice_4, getitem_1_slice)  # strides=(524288, 256, 64, 1), contiguous=True, view=False
-    h7_attn_add_3: 'bfloat16[32, 2048, 4, 64]' = aten.add.Tensor(h7_attn_mul_6, h7_attn_mul_7)  # strides=(524288, 256, 64, 1), contiguous=True, view=False
-    h7_attn_neg_1: 'bfloat16[1, 2048, 1, 64]' = aten.neg(getitem_1_slice)  # strides=(131072, 64, 64, 1), contiguous=True, view=False
-    h7_attn_mul_8: 'bfloat16[32, 2048, 4, 64]' = aten.mul.Tensor(h7_attn_slice_3, h7_attn_neg_1)  # strides=(524288, 256, 64, 1), contiguous=True, view=False
-    h7_attn_mul_9: 'bfloat16[32, 2048, 4, 64]' = aten.mul.Tensor(h7_attn_slice_4, getitem_slice)  # strides=(524288, 256, 64, 1), contiguous=True, view=False
-    h7_attn_add_4: 'bfloat16[32, 2048, 4, 64]' = aten.add.Tensor(h7_attn_mul_8, h7_attn_mul_9)  # strides=(524288, 256, 64, 1), contiguous=True, view=False
-    h7_attn_cat_1: 'bfloat16[32, 2048, 4, 128]' = aten.cat([h7_attn_add_3, h7_attn_add_4], 3)  # strides=(1048576, 512, 128, 1), contiguous=True, view=False
+    # FUSED: RoPE for Q
+    h7_attn_neg: 'bfloat16[1, 2048, 1, 64]' = aten.neg(getitem_1_slice)
+    h7_attn_cat: 'bfloat16[32, 2048, 4, 128]' = triton_rope_fwd(h7_attn_view, getitem_slice, getitem_1_slice)
+    # FUSED: RoPE for K
+    h7_attn_neg_1: 'bfloat16[1, 2048, 1, 64]' = aten.neg(getitem_1_slice)
+    h7_attn_cat_1: 'bfloat16[32, 2048, 4, 128]' = triton_rope_fwd(h7_attn_view_1, getitem_slice, getitem_1_slice)
     h7_attn__fused_rms_norm = aten._fused_rms_norm(h7_attn_cat, [128], None, None)  # out0: strides=(1048576, 512, 128, 1), contiguous=True; out1: strides=(8192, 4, 1, 1), contiguous=True, view=False
     h7_attn_getitem: 'bfloat16[32, 2048, 4, 128]' = operator.getitem(h7_attn__fused_rms_norm, 0)  # strides=(1048576, 512, 128, 1), contiguous=True, view=True
     h7_attn_getitem_1: 'float32[32, 2048, 4, 1]' = operator.getitem(h7_attn__fused_rms_norm, 1)  # strides=(8192, 4, 1, 1), contiguous=True, view=True
